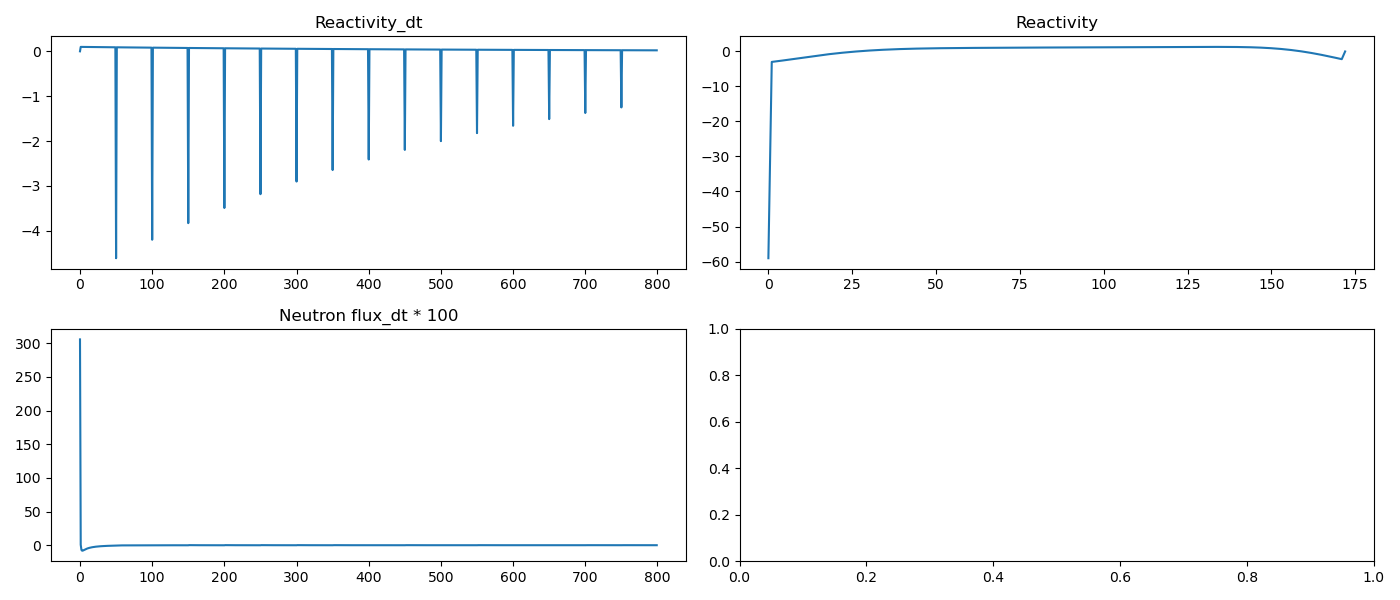
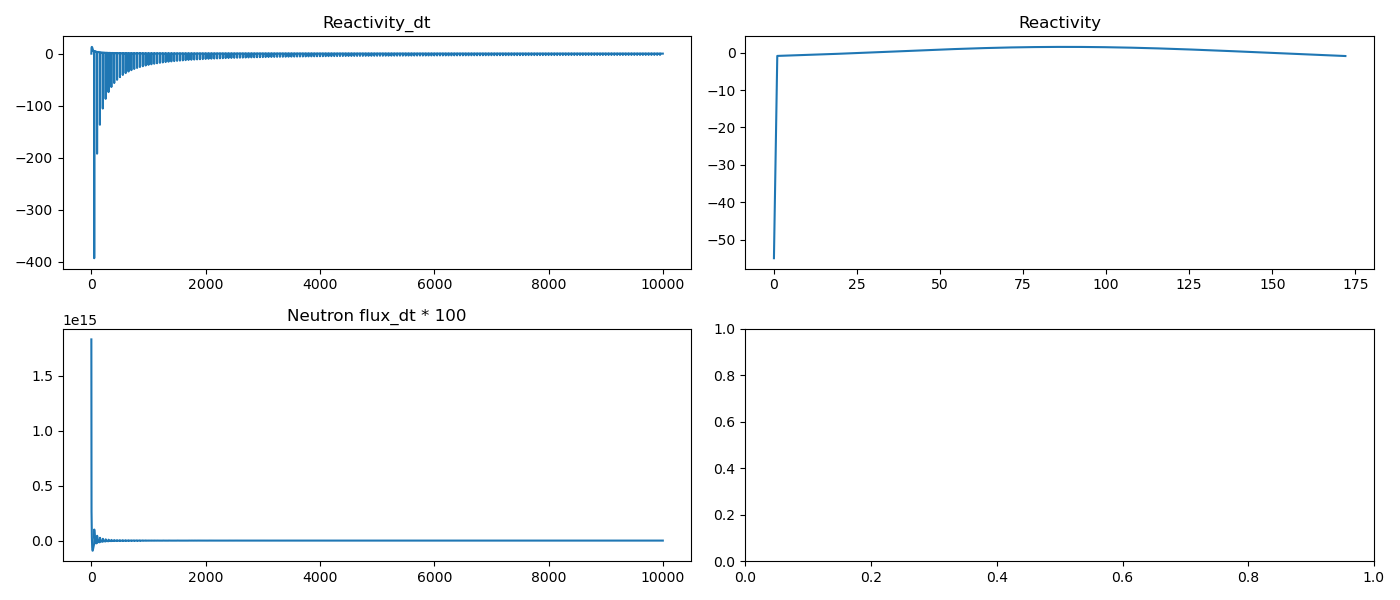
parameters_modify phi numerical scale

diff --git a/parameters.py b/parameters.py
@@ -3,9 +3,10 @@ import numpy as np
 def generate_parameters(
     # Neutronics
     dt=0.1, # fixed time step, 0.5
-    L = 172,  # Length of the spatial domain, m
+    L = 172,  # Length of the spatial domain, cm
     # L = 22.9
     N = 172,  # Number of spatial points
+    volume = 18 * 1e3, # volume of reactor
     # V = 4e5
     V = 1.103497 * 1e7,  # cm/s   
     # V = 2.2e5,        
@@ -13,12 +14,12 @@ def generate_parameters(
     D = 0.96343 * 7,  # cm 
     # D = 1.02,  
     # sigma_a =0.0835   
-    sigma_a=0.002161939172413793, # cm^-1, 7.33-explode, 7.325-converge to 0     
-    nu_sigma_f = 0.004411764705882353, # cm^-1, 3.33029e-2, 6.9- explode at 7.33, 6.9-converge to 0 at 7.325
+    sigma_a=0.002161939172413793, # cm^-1, 0.002161939172413793, 7.33-explode, 7.325-converge to 0     
+    nu_sigma_f = 0.004411764705882353, # cm^-1, 0.004411764705882353, 3.33029e-2, 6.9- explode at 7.33, 6.9-converge to 0 at 7.325
     # sigma_a = 0.00054869,
     # nu_sigma_f = 0.00098328,
     # nu_sigma_f = 3.33029
-    # sigma_f = 0.00408,  
+    sigma_f = 0.004411764705882353/2.41,  
     beta = [0.000228, 0.000788, 0.000664, 0.000736, 0.000136, 0.000088], # Delayed neutron fractions
     # Beta = sum(beta),      # 0.00264
     # Beta = 0.0045
@@ -32,35 +33,32 @@ def generate_parameters(
     # c0 = (delta / (sum(lambda_i)/6)) * phi_0
 
     # Thermal-Hydraulics
-    c_p_s = 1983,  # Specific heat of primary salt, J/kgK
-    Vc = 0.2,    # Salt velocity in the core, m/s
-    Ms = 1448,   # Fuel salt mass in the core, kg
-    Mg = 3687,   # Mass of graphite in the core, kg
+    c_p_s = 1983,  # 1983, Specific heat of primary salt, J/kgK
+    c_p_g = 1757,    # 1757, Specific heat of graphite, J/kg K
+    # Vc = 0.2,    # Salt velocity in the core, m/s
+    Vc = 0.2,
+    Ms = 1448,   # 1448, Fuel salt mass in the core, kg
+    Mg = 3687,   # 3687, Mass of graphite in the core, kg
     gamma = 0.93,    # Fraction of power released in the salt
-    # U = 36000   # Overall heat transfer coefficient between salt and graphite, W/K
-    U = 10000,
-    c_p_g = 1757,    # Specific heat of graphite, J/kg K
+    U = 36000,   # Overall heat transfer coefficient between salt and graphite, W/K
+    # U = 1800,
     # Temp input for test:
     # Amplitude = 4.5e6;
     # q_prime=Amplitude * sin(pi * linspace(0, L, N) / L)';
     # q_prime=Amplitude;
     # Boundary conditions
-    # bc_s0 = 910
-    # bc_sL = 958.15
-    # bc_g0 = 920
-    # bc_gL = 968.71
-    # bc_s0 = 900
-    # bc_sL = 910
-    # bc_g0 = 960
-    # bc_gL = 970
+    # bc_s0 = 910,
+    # bc_sL = 958.15,
+    # bc_g0 = 920,
+    # bc_gL = 968.71,
     bc_s0 = 922,
     bc_sL = 976,
     bc_g0 = 925,
     bc_gL = 993,
-    # bc_g0 = 1050
-    # bc_gL = 1060
-    # bc_g0 = 931.15
-    # bc_gL = 931.15
+    # bc_s0 = 0,
+    # bc_sL = 0,
+    # bc_g0 = 0,
+    # bc_gL = 0,
     # Initial conditions
     # initialS = (bc_s0 + (bc_sL - bc_s0) * (0.5 + 0.5 * np.sin(np.pi * (np.linspace(0, L, N) ) / (L*2))) * 0.8).T
     # initialG = (bc_g0 + (bc_gL - bc_g0) * (0.5 + 0.5 * np.sin(np.pi * (np.linspace(0, L, N) ) / (L*2))) * 1.05).T
@@ -80,9 +78,13 @@ def generate_parameters(
     c_p_ss = 2416,   # Specific heat of secondary salt, J/kg/K
     # Initial conditions
     u_L = 900.15,
-    u_H = 938,
+    u_H = 958,
     v_L = 824.85,
     v_H = 866.45,
+    # u_L = 0,
+    # u_H = 0,
+    # v_L = 0,
+    # v_H = 0,
     # initial conditions using a sine function
     # u_init = u_L + (u_H - u_L) * (0.5 + 0.5 * np.sin(np.pi * (np.linspace(0, L_HX, Nx) / L_HX))).T
     # v_init = v_L + (v_H - v_L) * (0.5 + 0.5 * np.sin(np.pi * (np.linspace(0, L_HX, Nx) / L_HX))* 1.05).T
@@ -106,8 +108,8 @@ def generate_parameters(
 
     # Reactivity
     # rho_init = 0 * np.ones(N)
-    alpha_f    = -5.904E-5,  # U233 (drho/K) fuel salt temperature-reactivity feedback coefficient ORNL-TM-1647 p.3 % -5.904E-05; % ORNL-TM-0728 p. 101 %
-    alpha_g    = -6.624E-5,  # U233  (drho/K) graphite temperature-reactivity feedback coefficient ORNL-TM-1647 p.3 % -6.624E-05; % ORNL-TM-0728 p.101
+    alpha_f    = -5.904E-5,  # -5.904E-5, U233 (drho/K) fuel salt temperature-reactivity feedback coefficient ORNL-TM-1647 p.3 % -5.904E-05; % ORNL-TM-0728 p. 101 %
+    alpha_g    = -6.624E-5,  # -6.624E-5, U233  (drho/K) graphite temperature-reactivity feedback coefficient ORNL-TM-1647 p.3 % -6.624E-05; % ORNL-TM-0728 p.101
     tau_l  = 16.73,  # ORNL-TM-0728 %16.44; % (s)
     tau_c  = 8.46,   # ORNL-TM-0728 %8.460; % (s)
 
@@ -127,9 +129,11 @@ def generate_parameters(
     dx = L / (Nx - 1)
     Beta = sum(beta)
     delta=Beta*nu_sigma_f
-    phi_0 = 2 * np.ones(N)  # 0.421, 5226.54, Initial neutron flux, n/cm^2/s
-    c0 = (sum(beta) * nu_sigma_f) / (sum(lambda_i)/6) * phi_0  # Initial precursor concentration
-    
+    phi_0 = 1e13 * np.ones(N)  # 0.421, 5226.54, Initial neutron flux, n/cm^2/s
+    # c0 = (sum(beta) * nu_sigma_f) / (sum(lambda_i)/6) * phi_0  # Initial precursor concentration
+    c0 = np.zeros(6 * N)
+    for i in range(6):
+        c0[i * N:(i + 1) * N] = (beta[i] * nu_sigma_f) / (lambda_i[i]/6) * phi_0
     rho_init = 0 * np.ones(N)
     
     initialS = (bc_s0 + (bc_sL - bc_s0) * (0.5 + 0.5 * np.sin(np.pi * (np.linspace(0, L, N) ) / (L*2))) * 0.8).T
@@ -150,12 +154,14 @@ def generate_parameters(
     return {
         'dt': dt,
         'L': L,
+        'volume': volume,
         'N': N,
         'dz': dz,
         'V': V,
         'D': D,
         'sigma_a': sigma_a,
         'nu_sigma_f': nu_sigma_f,
+        'sigma_f': sigma_f,
         'beta': beta,
         'lambda_i': lambda_i,
         'phi_0': phi_0,

diff --git a/main.py b/main.py
@@ -13,12 +13,12 @@ from transport_delay import transport_delay
 from power_plant import power_plant_temp
 
 def run_simulation(params, index):
-    time_span = 5000
+    time_span = 2000
     N = params['N']
     Nx = params['Nx']
 
     # Extract parameters
-    rho_insertion = 0 * np.ones(N)
+    rho_insertion = 0 * np.ones(N)     # pcm
     rho = params['rho_init'] * np.ones(N)
     # rho = 0 * np.ones(N)
     y_n = np.zeros((7 * N, 1))
@@ -61,6 +61,7 @@ def run_simulation(params, index):
         print(f'Step {step}/{time_span}')
         
         y_n, q_prime = neutronics(y_n[:, -1], rho, step, params)
+        q_prime = q_prime * params['sigma_f'] * params['volume'] / (3.12e10)
         phi = y_n[:N, -1].T
         ci = y_n[N:, -1].T
         phi_middle_matrix[step] = phi[int(N / 2)]
@@ -228,7 +229,7 @@ def save_specific_data(data, index):
     np.savez(data_file, data=data)
 
 def main():
-    # run_simulation(generate_parameters(), 0)
+    run_simulation(generate_parameters(), 0)
     # Define ranges of values for parameters
     # V_values = np.linspace(1.103497e6, 1.103497e8, 5)
     # D_values = np.linspace(0.96343*7, 0.96343*8, 5)     
@@ -262,7 +263,7 @@ def main():
     ]
 
     # Run simulations in parallel
-    Parallel(n_jobs=-1)(delayed(run_simulation)(params, idx) for idx, params in enumerate(parameter_sets))
+    # Parallel(n_jobs=-1)(delayed(run_simulation)(params, idx) for idx, params in enumerate(parameter_sets))
 
 if __name__ == "__main__":
     main()

diff --git a/reactivity.py b/reactivity.py
@@ -20,9 +20,12 @@ def reactivity(temperature_fuel_r, temperature_graphite_r, temperature_fuel, tem
     rho_0=sum(beta)
     for i in range(6):
         rho_0=rho_0-beta[i]/(1+(1/(lambda_i[i]*tau_c))*(1-np.exp(-lambda_i[i]*tau_l)))
-    rho_0=rho_0*np.ones(N)
+    # rho_0 = 0.0011211260746046986
+    # rho_0 = 0.000009
+    # print(f'rho_0{rho_0}')
+    rho_0=-rho_0*np.ones(N)
     
-    rho_0=rho_0*0
+    # rho_0= - 4 * np.sin(np.pi * (np.linspace(0, L, N) ) / (L*4)+(L/4))
     # print(rho_0)
     
     # SOURCE INSERTION
@@ -49,14 +52,14 @@ def reactivity(temperature_fuel_r, temperature_graphite_r, temperature_fuel, tem
     # reacttime = [0 10 10.1];
     # react = timeseries(reactdata,reacttime);
     
-    reactdata = [rho_init*1e-5, rho_insertion*1e-5]
+    reactdata = [rho_init * 1e-5, rho_insertion * 1e-5]
     if step < time_span/2:
         react = reactdata[0]
     else:
         react = reactdata[1]
         
     rho_feedback=(temperature_fuel_r-temperature_fuel)*alpha_f+(temperature_graphite_r-temperature_graphite)*alpha_g
-    
+    # rho_feedback = rho_feedback *0
     rho=rho_0+rho_feedback+react
     
     # rho=rho_init * np.ones(N)

diff --git a/thermal_hydraulics.py b/thermal_hydraulics.py
@@ -27,8 +27,8 @@ def thermal_hydraulics(y_th, q_prime, Ts_core_0, params, step):
     # parameters transformation
     a_th = Vc
     b_th = U / (Ms * c_p_s)
-    c_th = U / (Mg * c_p_g)
     d_th = L * gamma / (Ms * c_p_s)
+    c_th = U / (Mg * c_p_g)
     e_th = L * (1 - gamma) / (Mg * c_p_g)
 
     # discretize the spatial domain
@@ -54,10 +54,10 @@ def thermal_hydraulics(y_th, q_prime, Ts_core_0, params, step):
         # print("testThermal")
         temperature_fuel = y[:N]
         temperature_graphite = y[N:]
-        
         temperature_fuel_dt = a_th * (AT_sparse @ temperature_fuel) + b_th * (temperature_graphite-temperature_fuel)+d_th*q_prime.T
         temperature_graphite_dt = c_th * (temperature_fuel-temperature_graphite) + e_th * q_prime.T
-        
+        # print(f'd_th: {d_th*q_prime.T}')
+        # print(f'e_th: {d_th*q_prime.T}')
         # Apply time-varying boundary conditions
         temperature_fuel_dt[0] = bc_s0 - temperature_fuel[0]
         temperature_fuel_dt[-1] = bc_sL - temperature_fuel[-1]

diff --git a/neutronics.py b/neutronics.py
@@ -61,7 +61,7 @@ def neutronics(y_n, rho, step, params):
     if step == 0:
         phi_0 = params['phi_0']
         c0 = params['c0']
-        y0 = np.concatenate([phi_0, c0, c0, c0, c0, c0, c0])
+        y0 = np.concatenate([phi_0, c0[:N], c0[N:2*N], c0[2*N:3*N], c0[3*N:4*N], c0[4*N:5*N], c0[5*N:]])
     else:
         y0 = y_n
 
